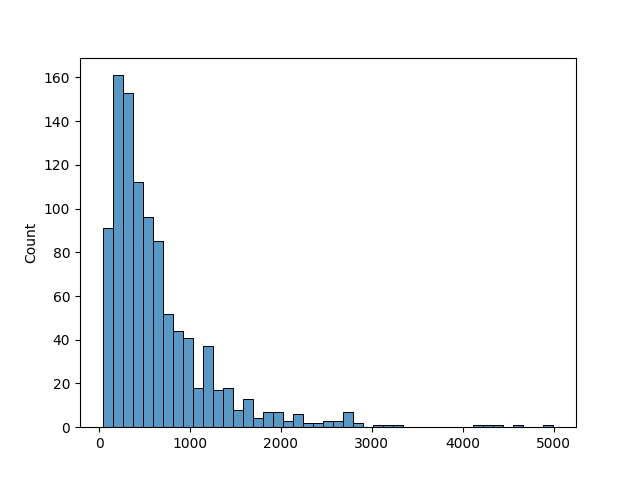
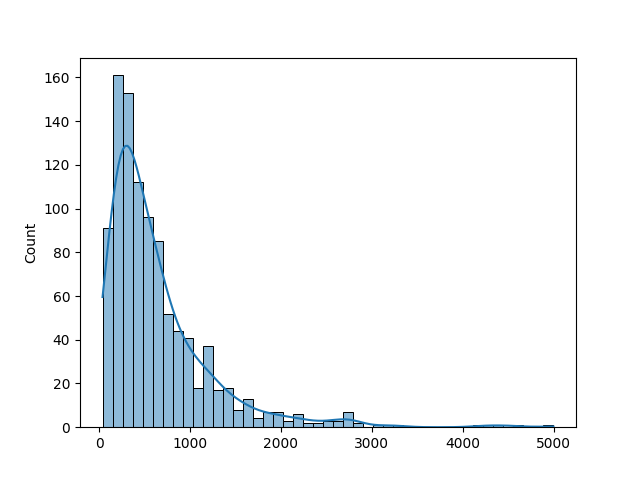
[Labwork] update density line labwork 2

Changed region(s): [[0.1562, 0.1562, 0.6562, 0.9062], [0.7188, 0.875, 0.8438, 0.9062]]

diff --git a/02.review.length.py b/02.review.length.py
@@ -14,6 +14,6 @@ variance = sum(distance) / len(sample_documents_size)
 
 std = math.sqrt(variance)
 
-sns_plot = sns.histplot(data=sample_documents_size)#,x='Document size',y='counts')
+sns_plot = sns.histplot(data=sample_documents_size,kde=True)#,x='Document size',y='counts')
 fig = sns_plot.get_figure()
 fig.savefig("02.review.length.png")
